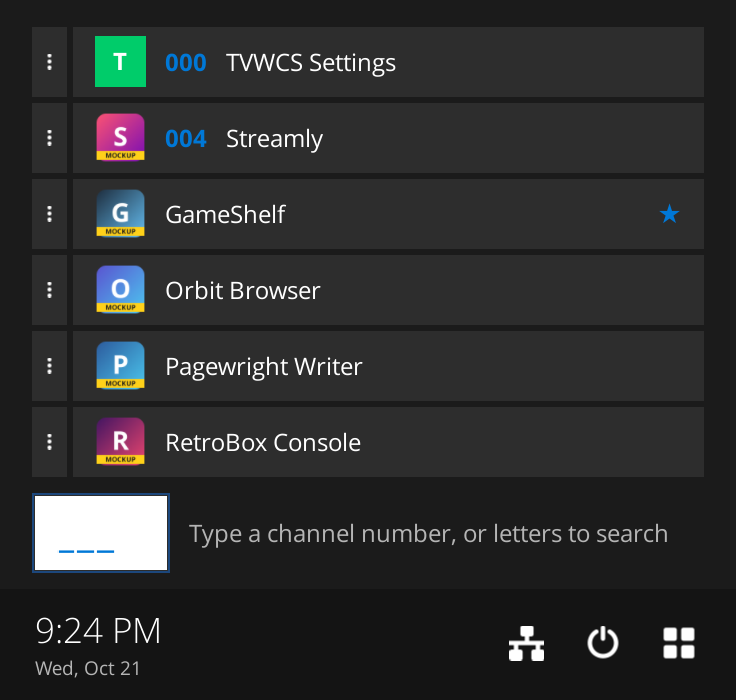
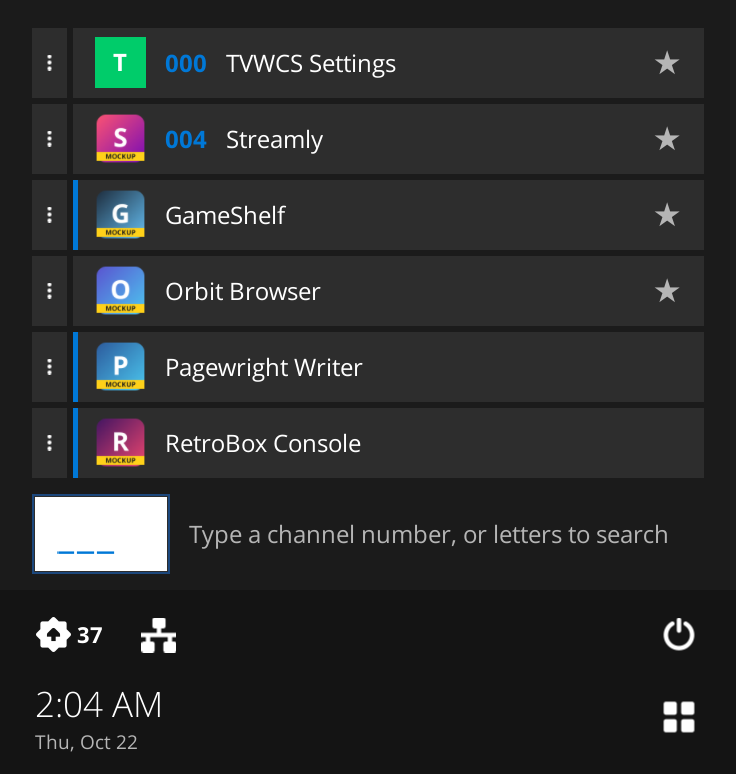
4.3.0: Quick Menu status rows, favorite and open-app markers, room for the keyboard
The status icons get their own row, with the clock and date in a row
below and ⊞ at its right, so an update count no longer widens the menu.
Favorites have a grey star and open apps a 3px band on the left. The
Quick Menu grows to fit the on-screen keyboard while it is open. New
README screenshots.

Claude-Session: https://claude.ai/code/session_01PyXqBkq1FcdD5QqCJvfTmj

diff --git a/package/tvwcs/ui_window.py b/package/tvwcs/ui_window.py
@@ -144,8 +144,13 @@ class TVWCSWindow(Gtk.ApplicationWindow):
         return pane
 
     def quick_height(self,width):
-        """How tall the Quick Menu needs to be, at `width`, to show everything in it without scrolling."""
-        return self.quick_pane.measure(Gtk.Orientation.VERTICAL,width)[1]
+        """How tall the Quick Menu needs to be, at `width`, to show everything in it without scrolling, or a card
+        drawn over it (the on-screen keyboard), whichever is taller."""
+        height=self.quick_pane.measure(Gtk.Orientation.VERTICAL,width)[1]
+        if self.modal_reveal.get_visible():
+            card=self.modal_card.measure(Gtk.Orientation.VERTICAL,self._card_width)[1]
+            height=max(height,card+2*S(24))   # with a little of the scrim around it
+        return height
 
     def _shape_search(self):
         """TV: a narrow channel field with its hint while the text could still be a channel number (empty, or up to
@@ -165,31 +170,36 @@ class TVWCSWindow(Gtk.ApplicationWindow):
     # ---------------------------------------------------------- the bottom: clock, status icons and power
     STATUS_KEYS=("updates","network","volume","bluetooth","battery")
     def _build_status_bar(self):
-        """The time and date, then icons for waiting updates, the network, the volume, Bluetooth and the battery (with
-        its charge, and whether it is charging; only on a computer with a battery), then ⏻ and, in the corner, ⊞ Applications.
+        """Two rows. Above: icons for waiting updates, the network, the volume, Bluetooth and the battery (with its
+        charge, and whether it is charging; only on a computer with a battery), and ⏻ at the far right. Below: the time
+        and date, and ⊞ Applications in the corner. Each row keeps its width whatever the icons show (an update count).
         The clock and the updates icon open their page of the Settings app; the others, and ⏻, unfold a panel above the
-        row (toggle_status_panel).
+        rows (toggle_status_panel).
         The icons are refreshed by main.StatusWatcher."""
-        bar=Gtk.Box(orientation=Gtk.Orientation.HORIZONTAL,spacing=S(4)); bar.add_css_class("quick-status")
-        clock=Gtk.Button(); clock.add_css_class("clock-button"); clock.set_hexpand(True); clock.set_tooltip_text("Date and time")
-        text=Gtk.Box(orientation=Gtk.Orientation.VERTICAL,spacing=0); text.set_halign(Gtk.Align.START)
-        self.clock_time=Gtk.Label(); self.clock_time.add_css_class("clock-time"); self.clock_time.set_xalign(0); text.append(self.clock_time)
-        self.clock_date=Gtk.Label(); self.clock_date.add_css_class("clock-date"); self.clock_date.set_xalign(0); text.append(self.clock_date)
-        clock.set_child(text); clock.connect("clicked",lambda *_:self.app.open_settings("datetime")); bar.append(clock)
+        bar=Gtk.Box(orientation=Gtk.Orientation.VERTICAL,spacing=S(2)); bar.add_css_class("quick-status")
+        icons=Gtk.Box(orientation=Gtk.Orientation.HORIZONTAL,spacing=S(4)); bar.append(icons)
         self._status_buttons={}
         for key in self.STATUS_KEYS:
             b=Gtk.Button(); b.add_css_class("square"); b.add_css_class("status-icon"); b.set_valign(Gtk.Align.CENTER)
             if key=="updates": b.connect("clicked",lambda *_:self.app.open_settings("updates"))
             else: b.connect("clicked",lambda _b,k=key:self.toggle_status_panel(k))
-            bar.append(b); self._status_buttons[key]=b
+            icons.append(b); self._status_buttons[key]=b
+        gap=Gtk.Box(); gap.set_hexpand(True); icons.append(gap)
         power=Gtk.Button(); power.set_child(glyph("system-shutdown-symbolic","⏻",22)); power.set_tooltip_text("Lock, sleep, reboot or shut down"); power.add_css_class("square"); power.add_css_class("status-icon"); power.set_valign(Gtk.Align.CENTER)
-        power.connect("clicked",lambda *_:self.toggle_status_panel("power")); bar.append(power); self._status_buttons["power"]=power
+        power.connect("clicked",lambda *_:self.toggle_status_panel("power")); icons.append(power); self._status_buttons["power"]=power
+        line=Gtk.Box(orientation=Gtk.Orientation.HORIZONTAL,spacing=S(4)); bar.append(line)
+        clock=Gtk.Button(); clock.add_css_class("clock-button"); clock.set_hexpand(True); clock.set_tooltip_text("Date and time")
+        text=Gtk.Box(orientation=Gtk.Orientation.VERTICAL,spacing=0); text.set_halign(Gtk.Align.START)
+        self.clock_time=Gtk.Label(); self.clock_time.add_css_class("clock-time"); self.clock_time.set_xalign(0); text.append(self.clock_time)
+        self.clock_date=Gtk.Label(); self.clock_date.add_css_class("clock-date"); self.clock_date.set_xalign(0); text.append(self.clock_date)
+        clock.set_child(text); clock.connect("clicked",lambda *_:self.app.open_settings("datetime")); line.append(clock)
         guide=Gtk.Button(); guide.set_child(glyph("view-grid-symbolic","⊞",22)); guide.add_css_class("square"); guide.add_css_class("status-icon"); guide.set_valign(Gtk.Align.CENTER)
         # ⊞ is on screen when it is clicked: open or close Applications here and now (show_mode would first ask the
         # window manager where TVWCS is, and an answer from before the click showed it again instead of closing it)
         guide.connect("clicked",lambda *_:self.app.show_panels(not self.guide_open,False,focus="guide" if not self.guide_open else "quick"))
-        bar.append(guide); self.guide_button=guide
-        self._status_group=NavGroup([clock,*self._status_buttons.values(),guide]); pointer_only(*self._status_group)
+        line.append(guide); self.guide_button=guide
+        self._status_group=NavGroup(list(self._status_buttons.values())); self._clock_group=NavGroup([clock,guide])
+        pointer_only(*self._status_group,*self._clock_group)
         self._status_shown=None; self.tick_clock(); self.show_status(self.app.status)
         return bar
     def tick_clock(self):
@@ -508,6 +518,7 @@ class TVWCSWindow(Gtk.ApplicationWindow):
             ch=Gtk.Label(label=f"{p.channel:03d}"); ch.add_css_class("channel-number"); inner.append(ch)
         inner.append(Marquee(self.app.profile_name(p,app),delay=NAME_SCROLL_DELAY).follow(main))
         if p.pin_hash: inner.append(self._lock_mark())
+        inner.append(self._star_mark())
         main.set_child(inner)
         main.connect("clicked",lambda _b,profile=p:self.app.launch_profile(profile))
         box,group=self._options_row(main,lambda profile=p,a=app:self._profile_items(profile,a))
@@ -517,11 +528,10 @@ class TVWCSWindow(Gtk.ApplicationWindow):
         """An application on a workspace of its own (or one app inside an expanded workspace)."""
         title,badge=extract_badge(w["title"],w.get("urgent",False))
         app=self.app.match_application_window(w)
-        main=Gtk.Button(); main.add_css_class("launch-row"); main.set_hexpand(True)
+        main=Gtk.Button(); main.add_css_class("launch-row"); main.add_css_class("open-app"); main.set_hexpand(True)
         inner=Gtk.Box(orientation=Gtk.Orientation.HORIZONTAL,spacing=S(12)); inner.append(self.app.window_icon(w,32,badge))
         inner.append(Marquee(title,delay=NAME_SCROLL_DELAY).follow(main))
-        if w["con_id"] in getattr(self,"_starred",()):
-            star=Gtk.Label(label="★"); star.add_css_class("favorite-mark"); star.set_tooltip_text("A favorite"); inner.append(star)
+        if w["con_id"] in getattr(self,"_starred",()): inner.append(self._star_mark())
         main.set_child(inner)
         main.connect("clicked",lambda _b,con=w["con_id"]:self.app.focus_window(con))
         box,group=self._options_row(main,lambda win=w,a=app:self._window_items(win,a))
@@ -531,7 +541,7 @@ class TVWCSWindow(Gtk.ApplicationWindow):
     def _workspace_row(self,entry,outputs):
         """Apps that share a workspace, grouped under a name built from what is in it. Its apps unfold above it."""
         box=Gtk.Box(orientation=Gtk.Orientation.VERTICAL,spacing=S(4))
-        main=Gtk.Button(); main.add_css_class("launch-row"); main.set_hexpand(True); main.set_tooltip_text("Open this workspace and everything on it")
+        main=Gtk.Button(); main.add_css_class("launch-row"); main.add_css_class("open-app"); main.set_hexpand(True); main.set_tooltip_text("Open this workspace and everything on it")
         inner=Gtk.Box(orientation=Gtk.Orientation.HORIZONTAL,spacing=S(12)); icons=Gtk.Box(orientation=Gtk.Orientation.HORIZONTAL,spacing=S(2))
         for w in entry.windows[:3]: icons.append(self.app.window_icon(w,24,extract_badge(w["title"],w.get("urgent",False))[1]))
         inner.append(icons)
@@ -637,6 +647,10 @@ class TVWCSWindow(Gtk.ApplicationWindow):
         for pid,_icon,spinner in self._launch_slots:
             if pid==profile_id: spinner.set_tooltip_text(f"{name} has not opened a window yet. It may still be starting, or it may not have started.")
 
+    @staticmethod
+    def _star_mark():
+        """The grey ★ of a favorite in the Quick Menu (an open one also has the band of an open app)."""
+        star=Gtk.Label(label="★"); star.add_css_class("favorite-mark"); star.set_tooltip_text("A favorite"); return star
     @staticmethod
     def _lock_mark():
         mark=glyph("changes-prevent-symbolic","🔒",16); mark.set_tooltip_text("Protected by a PIN"); return mark
@@ -907,7 +921,7 @@ class TVWCSWindow(Gtk.ApplicationWindow):
             for g in groups: out+=getattr(g,"options",None) or []; out.append(g)
             return out
         return ([self._header_group]+unfolded(self._groups["quick"])+unfolded(reversed(self._result_groups))
-                +[[self.search_entry]]+list(getattr(self,"_panel_groups",[]))+[getattr(self,"_status_group",[])])
+                +[[self.search_entry]]+list(getattr(self,"_panel_groups",[]))+[getattr(self,"_status_group",[]),getattr(self,"_clock_group",[])])
     @staticmethod
     def _contains(widget,focused): return focused is not None and (focused is widget or focused.is_ancestor(widget))
     def _in_search(self,focused): return self._contains(self.search_entry,focused)   # focus sits on the entry's inner text widget
@@ -1090,10 +1104,12 @@ class TVWCSWindow(Gtk.ApplicationWindow):
         if not self._modal_groups: self._return_focus=self.get_focus()
         clear_box(self.modal_card); self.modal_card.set_size_request(self._card_width,-1)
         self.modal_reveal.set_visible(True); self.modal_reveal.set_can_target(True); self.modal_reveal.set_reveal_child(True)
+        GLib.idle_add(lambda:(self.app.fit_quick_menu(),GLib.SOURCE_REMOVE)[1])   # once filled: taller for a keyboard
     def close_modal(self):
         if self._text is not None and self._text.get("secret"): self._text["entry"].set_text("")   # a typed password is never left in the widget
         self._modal_groups=[]; self._modal_back=None; self._capture=None; self._pin=None; self._text=None; self._chan=None
         self.modal_reveal.set_can_target(False); self.modal_reveal.set_reveal_child(False); self.modal_reveal.set_visible(False)
+        self.app.fit_quick_menu()   # back to the Quick Menu's own height
         back=self._return_focus
         if back is not None and usable(back): back.grab_focus()
         else: self.focus_pane("quick")

diff --git a/package/tests/test_navigation.py b/package/tests/test_navigation.py
@@ -134,8 +134,9 @@ class NavigationTests(unittest.TestCase):
         win=make_window(); g=options_row(win,expanded=True)[0]; opt=W("option"); item=NavGroup([opt]); item.option_item=True; g.options=[item]; W.focus=opt
         self.assertTrue(win._move_within_group(1)); self.assertTrue(win._move_within_group(-1)); win.app.show_panels.assert_not_called(); self.assertIs(W.focus,opt)
     def test_an_open_status_panel_is_between_search_and_the_status_row(self):
-        win=make_window(); p=W("wifi"); win._panel_groups=[NavGroup([p])]; status=NavGroup([W("clock"),W("power")]); win._status_group=status
-        order=win._ordered_groups("quick"); self.assertEqual(order[-2:],[win._panel_groups[0],status]); self.assertEqual(order[-3],[win.search_entry])
+        win=make_window(); p=W("wifi"); win._panel_groups=[NavGroup([p])]; status=NavGroup([W("wifi icon"),W("power")]); win._status_group=status
+        clock=NavGroup([W("clock"),W("guide")]); win._clock_group=clock   # the clock and ⊞: a row below the status icons
+        order=win._ordered_groups("quick"); self.assertEqual(order[-3:],[win._panel_groups[0],status,clock]); self.assertEqual(order[-4],[win.search_entry])
     def test_a_panel_stays_open_while_the_selection_is_on_what_it_owns(self):
         win=make_window(); collapse=MagicMock(); opener=W("power"); inside=W("lock")
         win._open_row=types.SimpleNamespace(owns=lambda w:w is opener or w is inside,expanded=lambda:True,collapse=collapse); win._popovers=0

diff --git a/package/tvwcs/theme.py b/package/tvwcs/theme.py
@@ -12,7 +12,11 @@ window.tvwcs-window, .tvwcs-root { background: @BG@; color: @FG@; font-family: "
 .muted { color: @MUTED@; font-size: 14px; }
 .section-title { font-size: 13px; font-weight: 700; letter-spacing: 2px; color: @ACCENT@; margin-top: 12px; margin-bottom: 2px; }
 .channel-number { font-weight: 700; color: @ACCENT@; }
-.favorite-mark { color: @ACCENT@; }
+.favorite-mark { color: @MUTED@; font-size: 18px; }
+button:focus .favorite-mark { color: #ffffff; }
+/* a Quick Menu row that is open now: a thin band down its left side (white while selected) */
+button.launch-row.open-app { box-shadow: inset 3px 0 @ACCENT@; }
+button.launch-row.open-app:focus, button.launch-row.open-app:focus-visible { box-shadow: inset 6px 0 #ffffff; }
 .child-marker { color: @FAINT@; font-size: 22px; }
 button { min-height: 44px; min-width: 44px; padding: 0 14px; border: none; border-radius: 0; background: @RAISED@; background-image: none; color: @FG@; box-shadow: none; text-shadow: none; font-size: 15px; }
 window.pointer button:hover { background: @HOVER@; }

diff --git a/PROJECT_OVERVIEW.md b/PROJECT_OVERVIEW.md
@@ -45,17 +45,17 @@ Navigation is spatial. → past the Quick Menu opens Applications; ← goes back
 The header is at the top; everything else sits at the bottom, nearest the search field, with any spare height above it. From top to bottom:
 
 - **Header:** the title and ✕ close (it can be hidden).
-- **Favorites and open applications, in one list without headings.** Favorites (pinned launch profiles) come first, in their order; a favorite that is open stands in its place as the open app, with ★. The other open applications follow, by workspace. A workspace is the unit you "change channel" between. An app alone on its workspace is listed as that app. Several apps on one workspace are one entry named after its contents ("Brave + Text Editor"). With neither favorites nor open apps, a note points to Applications (→) for the installed apps.
+- **Favorites and open applications, in one list without headings.** Favorites (pinned launch profiles) come first, in their order; a favorite that is open stands in its place as the open app. Favorites have a grey ★; open apps (and workspaces) a 3 px band down their left side. The other open applications follow, by workspace. A workspace is the unit you "change channel" between. An app alone on its workspace is listed as that app. Several apps on one workspace are one entry named after its contents ("Brave + Text Editor"). With neither favorites nor open apps, a note points to Applications (→) for the installed apps.
 - **Search results**, listed upwards from the search field: the best match is the one nearest it, and ↑ moves on to the next.
 - **Search:** profiles, app names, commands, channel numbers and open windows. Typing a channel number and pressing OK opens it. On a TV the field starts three characters wide (**___**) with a short hint beside it, and widens for a letter or a fourth digit. OK on the empty field opens the on-screen keyboard (or number keypad).
-- **Status row:** clock, waiting updates, network, volume, Bluetooth, the battery with its charge (charging, plugged in or on battery; only on a computer with a battery), and ⏻ power. The clock and the updates icon open their Settings page. The others unfold a panel above the row, indented a little, like a row's options:
+- **Status rows:** above, waiting updates, network, volume, Bluetooth, the battery with its charge (charging, plugged in or on battery; only on a computer with a battery), and ⏻ power at the right; below, the clock and ⊞. The clock and the updates icon open their Settings page. The others unfold a panel above the row, indented a little, like a row's options:
   - **⏻ Power:** Lock (nearest the button), Sleep, Reboot, Shut down, and Log out when there is a login screen.
   - **Network:** the connection in use (Wi-Fi network and signal, or the wired connection) with its address, Wi-Fi on or off, and Network settings.
   - **Volume:** mute, − and + (and a slider) for the output and the input, and Sound settings.
   - **Bluetooth:** the connected devices, each with Disconnect, Bluetooth on or off, and Bluetooth settings.
   - **Battery:** the charge and about how long until it is empty (or charged), from the kernel's estimate or the rate it drains at, and Power settings.
   Details that need a command (network, Bluetooth, sound) are read in the background; the selection moves into the panel once they arrive. A panel folds away when the selection leaves it and its icon, with Back, or with its icon again.
-- **Applications button:** ⊞ in the Quick Menu's bottom-right corner, after ⏻, opens or closes Applications (highlighted while it is open). With a remote, → past the end of a row does the same.
+- **Applications button:** ⊞ in the Quick Menu's bottom-right corner, beside the clock, opens or closes Applications (highlighted while it is open). With a remote, → past the end of a row does the same.
 
 Each row has a menu button (⋯), also opened with ← on the row or a right-click. Its options unfold upwards, above the row, indented a little on both sides, close to their row and with a small gap to the row above. From the top: the app's own `.desktop` actions, opening it the other way, and Close nearest the row (the selection lands on the option just above Close). ↑ from the row goes into them; they fold away when the selection leaves them and their row, with Back, or with ⋯ again:
 

diff --git a/README.md b/README.md
@@ -23,7 +23,7 @@ TVWCS has two modes:
     <td valign="top"><img src="assets/guide-menu.png" alt="The Quick Menu with the Applications pane open beside it" width="100%"></td>
   </tr>
   <tr>
-    <td valign="top">In desktop mode, "TVWCS" and ✕ close at the top (TV mode has no header). Below: one list of your favorites, then the other open applications (by workspace; ▴ unfolds the apps that share one, above it), then the search field. At the bottom: the clock, icons for network, volume, Bluetooth and the battery that each unfold a panel, then ⏻ power and, in the bottom-right corner, ⊞, which opens Applications.</td>
+    <td valign="top">In desktop mode, "TVWCS" and ✕ close at the top (TV mode has no header). Below: one list of your favorites, then the other open applications (by workspace; ▴ unfolds the apps that share one, above it), then the search field. Favorites have a grey ★, and open apps a thin band down their left side. At the bottom, two rows: icons for network, volume, Bluetooth and the battery that each unfold a panel, with ⏻ power at the right; below them the clock and, in the bottom-right corner, ⊞, which opens Applications.</td>
     <td valign="top"><b>Channels</b> lists apps you gave a number. <b>All applications</b> lists every app by category; OK/Enter folds a category. ☆ makes an app a favorite, ✎ edits it.</td>
   </tr>
   <tr>
@@ -118,7 +118,7 @@ Most remotes act like a keyboard. TVWCS names their keys in its hints: **OK** is
 | Any letter or digit | Search. A channel number (000 to 999) then OK opens that channel. On a TV the search field starts three digits wide; typing a letter or a fourth digit widens it |
 | **←** on a Quick Menu row (or right-click) | Open that row's menu |
 
-- **Quick Menu layout:** it sits in the bottom-left corner, only as tall as what it shows. Your favorites and open apps (one list, favorites first), search and the status row are at the bottom, with search results appearing above the search field. A favorite that is open shows once, in its place, as an open app with ★. A name too long to fit scrolls by after it has been selected for 3 seconds. In TV mode the search field is three characters wide and shows **___** for a channel number. The date is short, such as "Sat, Oct 17".
+- **Quick Menu layout:** it sits in the bottom-left corner, only as tall as what it shows. Your favorites and open apps (one list, favorites first), search and the status row are at the bottom, with search results appearing above the search field. Favorites have a grey ★ and open apps a thin band down their left side, so a favorite that is open (shown once, in its place) has both. A name too long to fit scrolls by after it has been selected for 3 seconds. In TV mode the search field is three characters wide and shows **___** for a channel number. The date is short, such as "Sat, Oct 17".
 - **Row options (⋯):** they unfold upwards, just above their row and indented a little. From the top: the app's own shortcuts (such as Settings' pages), open it this once the other way (**Open in new workspace** in desktop mode, **Open alongside …** the apps on screen in TV mode), and **Close this application** at the bottom, nearest the row. A workspace's can move it to another monitor. Back folds them away.
 - **Workspaces with several apps:** the square ▴ button between ⋯ and the workspace's name unfolds its individual apps above it, to open just one; ▾ folds them again. On the name, ← moves onto it; ← again opens the row's menu.
 - **Channels:** 000 to 999. Channel 000 opens Settings unless you give it to another app. Setting a channel shows three digit boxes; typing replaces the number.

diff --git a/CHANGELOG.md b/CHANGELOG.md
@@ -1,5 +1,12 @@
 # Changelog
 
+## 4.3.0 — 2026-10-22
+
+**Quick Menu**
+- The status icons (updates, network, volume, Bluetooth, battery, ⏻) have a row of their own, and the clock and date a row below them with ⊞ Applications at its right. An update count no longer pushes the buttons past the edge of the menu.
+- Favorites have a grey ★, and open apps (and workspaces) a thin band down their left side, so a favorite that is open has both.
+- The menu grows to fit the on-screen keyboard while it is open, and goes back to its size after.
+
 ## 4.2.1 — 2026-10-21
 
 - Picking a page of an open Settings window (or another open app's shortcut) from its ⋯ menu shows that window on the page, on sway too. Before, sway left you on a new, empty workspace with a "Starting TVWCS Settings…" card, because the open window doesn't flag itself there.
